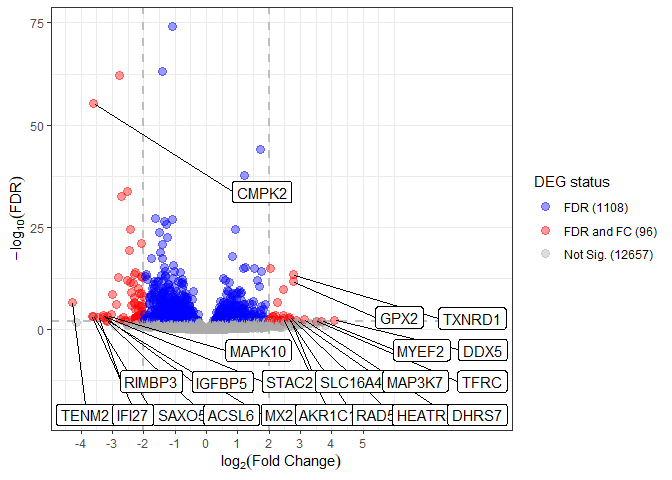
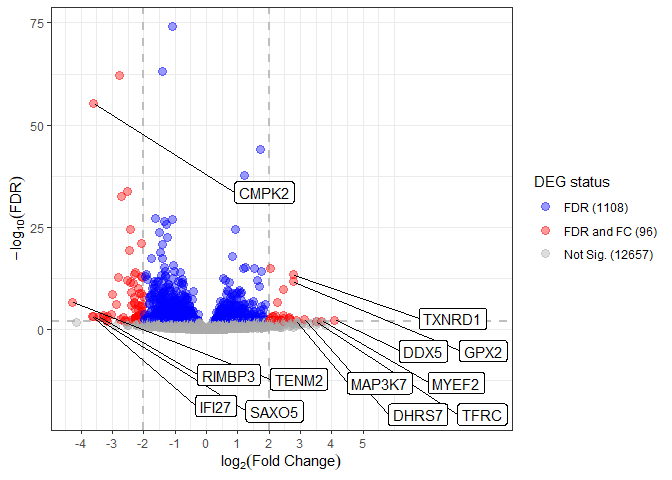
review manually

Changed region(s): [[0.0938, 0.5938, 0.75, 0.9062], [0.3438, 0.375, 0.4375, 0.4375]]

diff --git a/code/DEG_exploration.md b/code/DEG_exploration.md
@@ -102,7 +102,7 @@ the H0 is true, we would expect to see an uniform distribution of
 pvalues. A peak at low zeroes indicate we reject the H0.
 
 ``` r
-temp <- visualize_degs(degs[Group == "H2O2_Vs_Ctrl"], alpha, log2FC)
+temp <- visualize_degs(degs[Group == "H2O2_Vs_Ctrl"], alpha, log2FC, top_exp = 5)
 temp[[1]]
 ```
 
@@ -112,9 +112,6 @@ we visualize the expression changes using a volcano plot.
 ``` r
 temp[[2]]
 ```
-
-    ## Warning: ggrepel: 1 unlabeled data points (too many overlaps). Consider
-    ## increasing max.overlaps
 
 ![](DEG_exploration_files/figure-gfm/unnamed-chunk-4-1.png)<!-- -->
 
